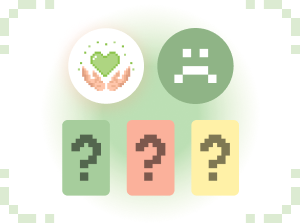
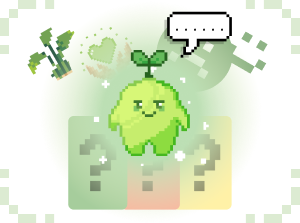
add style gallery

diff --git a/src/pages/gallery/gallery.tsx b/src/pages/gallery/gallery.tsx
@@ -1,14 +1,15 @@
 import Container from "components/container/container";
 import { Image, Spin, Row, Typography, Col } from 'antd';
-import { useEffect, useState } from "react";
+import { useEffect, useRef, useState } from "react";
 import { useAppContext } from "context/appContext";
 import formatNumber from "utils/formatNumber";
-import { CardContainer, ImageContainer, HeaderCard, RateStyle, GoalCircle, TextName, QuoteBox } from "pages/result/result.styles";
+import { ImageContainer, HeaderCard, RateStyle, GoalCircle, TextName, QuoteBox } from "pages/result/result.styles";
 import { Box } from "theme/components";
 import formatGoal from "utils/formatGoal";
 import formatMonster from "utils/formatMonster";
 import  logo  from 'assets/tests/healing_logo.png'
-
+import { BoxCarousel, BoxGallery, CardGallery, CarouselCard, ContentGallery, InputSearch, SearchInput } from "./style/gallery.styles";
+import { SearchOutlined } from '@ant-design/icons';
 const { Text, Title} = Typography;
 
 function Gallery() {
@@ -16,7 +17,18 @@ function Gallery() {
   const { cardInfo } = useAppContext();
   const [currentYear, setCurrentYear] = useState('');
   const [ data ] = useState(cardInfo);
+  const [slide, setSlide] = useState(0);
+  const slider = useRef<any|undefined>();
 
+  const suffix = (
+    <SearchOutlined
+    onClick={()=> slider.current.goTo(slide - 1)}
+    style={{
+        fontSize: 16,
+        color: '#A6CD9C',
+      }}
+    />
+  );
   const getYear = () => {
     var d = new Date(); 
     var year = d.getFullYear();
@@ -32,20 +44,49 @@ function Gallery() {
     }
   // eslint-disable-next-line react-hooks/exhaustive-deps
   }, []);
+  useEffect(() => {
+    console.log(slide)
+  }, [slide]);
 
     return (
      <>
       <Container header={{ title: 'Gallery Cards', left: 'back' }}>
          {isLoading ?
             <Box justify='center' align='center' direction='row' >
-            <Spin size="large" />
+            <Spin size="large"  style={{marginTop: '20%'}} />
             </Box>
         :
-          <Box justify='center' align='center' direction='column'>
-            <Title level={3} style={{marginTop: '5px', color: '#737373'}}>All ({data.length}) </Title>
-            {data.map((item: any, index: any) => {
+        <>
+         <Box justify='center' align='center' direction='column' style={{ marginTop: '10px !important' }} >
+         <SearchInput>
+           <Row>
+             <Col  style={{ paddingTop: '20px', justifyContent: 'center'}}>ค้นหาใบที่ </Col>
+             <Col><InputSearch placeholder="1"
+             min={0}
+             max={3}
+            suffix={suffix}
+            //  value={slide}
+             onChange={(e : any)=> {
+               setSlide(parseInt(e.target.value));
+               console.log(e.target.value)
+             }}
+             /></Col>
+           </Row>
+        </SearchInput>
+        <Text style={{marginTop: '5px', color: '#A6CD9C', fontSize: '18px'}}>ผลิตการ์ดไปแล้ว  <b>{data.length}</b>  ใบ</Text>
+           <BoxGallery>
+             <BoxCarousel>
+               <CarouselCard 
+               slidesToShow={1}
+               dots={false}
+               ref={ref => {
+                 slider.current = ref;
+               }}
+               >
+               {data.map((item: any, index: any) => {
  return(
-  <CardContainer key={index} rank={item.nft_card.bg_color} style={{ marginTop: '10px !important'}}>
+   <ContentGallery  key={index} >
+  <CardGallery rank={item.nft_card.bg_color}>
 <Row style={{justifyContent: 'center' }} >
 <HeaderCard>
 <Title level={5} style={{color: '#737373', marginBottom: '-0.5em'}} >"{item.goal}"</Title>
@@ -100,11 +141,18 @@ src={logo}
 preview={false}
 /></Col>
 </Row>
-</CardContainer>
+</CardGallery>
+<Text style={{marginTop: '5px', color: '#A6CD9C', fontSize: '18px'}}>ใบที่ <b>{index+1}</b> </Text>
+</ContentGallery>
 )
           }
          )}
-          </Box>
+                 
+               </CarouselCard>
+             </BoxCarousel>
+           </BoxGallery>
+           </Box>
+           </>
         }
        </Container>
      </>

diff --git a/src/pages/gallery/style/gallery.styles.tsx b/src/pages/gallery/style/gallery.styles.tsx
@@ -1,0 +1,95 @@
+import { Carousel, Input } from "antd";
+import styled from "styled-components";
+
+export const BoxGallery = styled.div`
+  display: flex;
+  width: 100%;
+  justify-content: center;
+  align-items: center;
+  flex-direction: column;
+`;
+
+export const BoxCarousel = styled.div`
+    display: block;
+    width: 100%;
+  `;
+
+export const CarouselCard = styled(Carousel)`
+& .slick-dots-bottom{
+    position: relative;
+    margin-top: 30px;
+}
+& .slick-dots li.slick-active button {
+    background: #A6CD9C;
+    opacity: 1;
+    width: 10px;
+    height: 10px;
+}
+& .slick-dots li button {
+    width: 7px;
+    height: 7px;
+    border-radius: 50% !important;
+    opacity: 1;
+}
+& .slick-dots li{
+  width: 15px;
+}
+& .slick-dots li.slick-active {
+    width: 15px;
+}
+`
+export const ContentGallery = styled.div`
+    height: max-content;
+    text-align: center;
+    background: transparent;
+    display: flex !important;
+    flex-direction: column;
+    justify-content: center;
+    align-items: center;
+  `;
+
+export const SearchInput = styled(Input.Group)`
+display: flex !important;
+justify-content: center !important;
+align-content: center !important;
+margin-bottom: 10px;
+width: 80%;
+text-align: center;
+color: #A6CD9C;
+`
+export const InputSearch = styled(Input)`
+&.ant-input-affix-wrapper > input.ant-input{
+    background: transparent;
+}
+    border-bottom: 2px solid var(--Green-300);
+    border-top-style: hidden;
+    border-right-style: hidden;
+    border-left-style: hidden;
+    outline: 0;
+    background-color: transparent;
+    color: #5B944D;
+    font-size: 18px;
+`
+
+type TypeCard = "Common" | "Rare" | "Epic" | "Legendary";
+interface CardsProps {
+    rank?: TypeCard
+  }
+
+export const CardGallery = styled.div<CardsProps>`
+    width: 317px;
+    height: 472px;
+    /* border-radius: 20px; */
+    box-sizing: border-box; 
+    background-image: ${(props: CardsProps) => props.rank? `url(${process.env.PUBLIC_URL}'cards/${props.rank}.png')` : `url(${process.env.PUBLIC_URL + 'cards/Common.png'})`};
+    /* background-color: #FFFFFF; */
+    /* box-shadow: 0px 0px 83px -23px rgba(0, 0, 0, 0.25); */
+    margin: 10px 16px 5px 16px;
+    padding: 25px;
+    display: block;
+    justify-content: center;
+    align-items: center ;
+    text-align: center;
+    flex-direction: column;
+    position: relative;
+`

diff --git a/src/pages/intro/intro.tsx b/src/pages/intro/intro.tsx
@@ -29,6 +29,7 @@ function Intro() {
                     <Image
                         width={350}
                         src={item.img}
+                        preview={false}
                     />  
                     </ImageSlide>
                     <BoxText>

diff --git a/src/components/carousels/CarouselHome.tsx b/src/components/carousels/CarouselHome.tsx
@@ -51,6 +51,7 @@ function CarouselHome() {
             <Image
             width={500}
             src={image.img}
+            preview={false}
             />
             </ImageContent>
             <TitleStyle level={5}>{image.tile}</TitleStyle>
